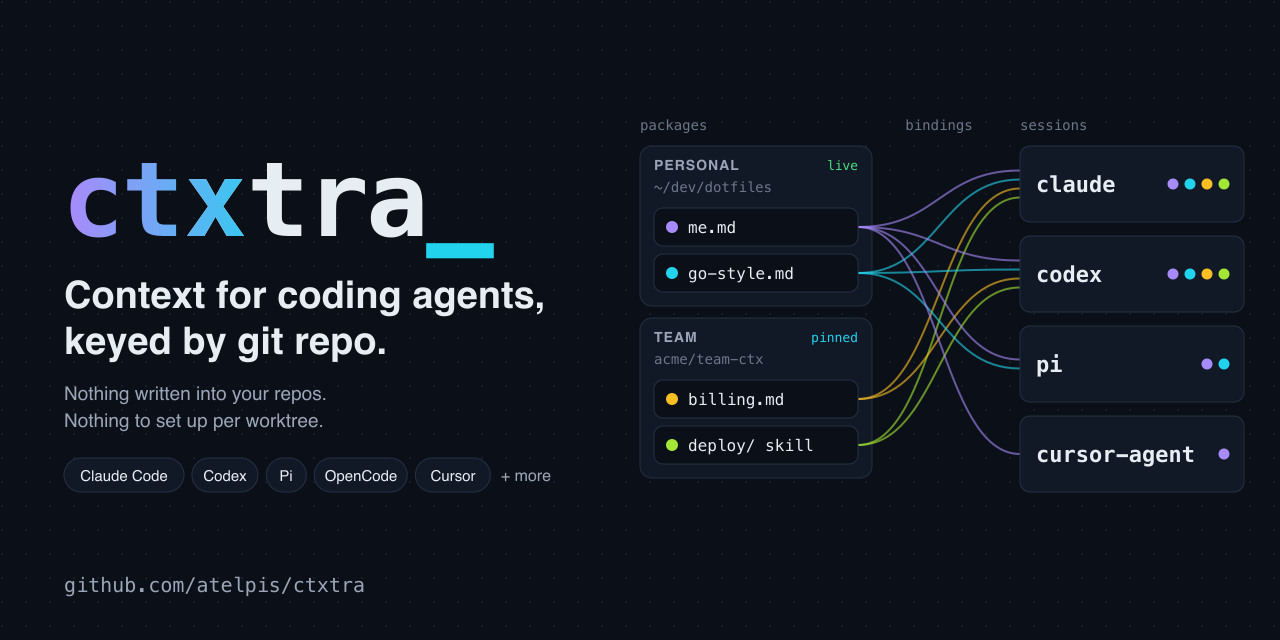
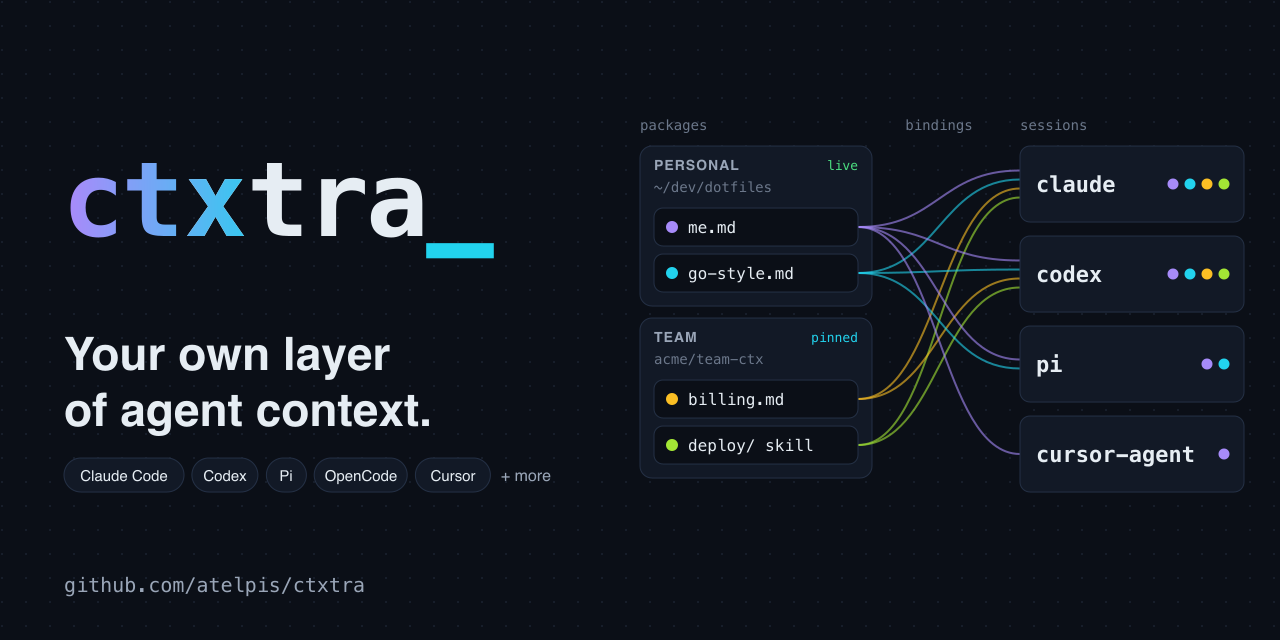
Remove the badges and change the hero headline

Changed region(s): [[0.0312, 0.4375, 0.4375, 0.6875]]

diff --git a/docs/assets/gen.py b/docs/assets/gen.py
@@ -73,6 +73,9 @@ PACKAGES = [
 ]
 
 
+HEADLINE = ["Your own layer", "of agent context."]
+
+
 def hero_body(c, w, h, top=0, animate=True, paths=True):
     """The hero content; top shifts it down for the taller social preview."""
     col = lambda i: c[FILE_COLORS[i]]
@@ -94,10 +97,9 @@ def hero_body(c, w, h, top=0, animate=True, paths=True):
                           '<animate attributeName="opacity" values="1;0" calcMode="discrete" dur="1.1s" repeatCount="indefinite"/>'))
     else:
         b.append(wordmark(None, "url(#g)", None, c["CYAN"]))
-    b.append(f'<text x="64" y="{t+212}" font-size="38" font-weight="700" fill="{c["TEXT"]}">Context for coding agents,</text>')
-    b.append(f'<text x="64" y="{t+258}" font-size="38" font-weight="700" fill="{c["TEXT"]}">keyed by git repo.</text>')
-    b.append(f'<text x="64" y="{t+304}" font-size="19" fill="{c["MUTED"]}">Nothing written into your repos.</text>')
-    b.append(f'<text x="64" y="{t+331}" font-size="19" fill="{c["MUTED"]}">Nothing to set up per worktree.</text>')
+    # the headline sits just above the agent list
+    for k, line in enumerate(HEADLINE):
+        b.append(f'<text x="64" y="{t + 274 + k*56}" font-size="46" font-weight="700" fill="{c["TEXT"]}">{escape(line)}</text>')
     x = 64
     for name in ["Claude Code", "Codex", "Pi", "OpenCode", "Cursor"]:
         cw = 22 + len(name) * 8.9
@@ -161,7 +163,7 @@ def hero(theme):
     c = THEMES[theme]
     w, h = 1280, 432
     write(f"hero-{theme}.svg", frame(c, w, h, grid=True) + hero_body(c, w, h), w, h,
-          "ctxtra: context for coding agents, keyed by git repo. Nothing written into your repos, nothing to set up per worktree")
+          "ctxtra: your own layer of agent context. Personal and team instruction files and skills, bound to agent sessions")
 
 
 def social():

diff --git a/README.md b/README.md
@@ -1,15 +1,8 @@
 <p align="center">
   <picture>
     <source media="(prefers-color-scheme: dark)" srcset="docs/assets/hero-dark.svg">
-    <img src="docs/assets/hero-light.svg" alt="ctxtra: context for coding agents, keyed by git repo. Nothing written into your repos, nothing to set up per worktree" width="100%">
+    <img src="docs/assets/hero-light.svg" alt="ctxtra: your own layer of agent context. Personal and team instruction files and skills, bound to agent sessions" width="100%">
   </picture>
-</p>
-
-<p align="center">
-  <a href="https://github.com/atelpis/ctxtra/actions/workflows/ci.yml"><img src="https://github.com/atelpis/ctxtra/actions/workflows/ci.yml/badge.svg" alt="CI"></a>
-  <a href="https://github.com/atelpis/ctxtra/actions/workflows/e2e.yml"><img src="https://github.com/atelpis/ctxtra/actions/workflows/e2e.yml/badge.svg" alt="e2e against real agents"></a>
-  <img src="https://img.shields.io/github/go-mod/go-version/atelpis/ctxtra" alt="Go version">
-  <img src="https://img.shields.io/badge/status-preview-F59E0B" alt="Status: preview">
 </p>
 
 ctxtra gives each coding agent session the instructions and skills you chose for that repo. Keep them in
